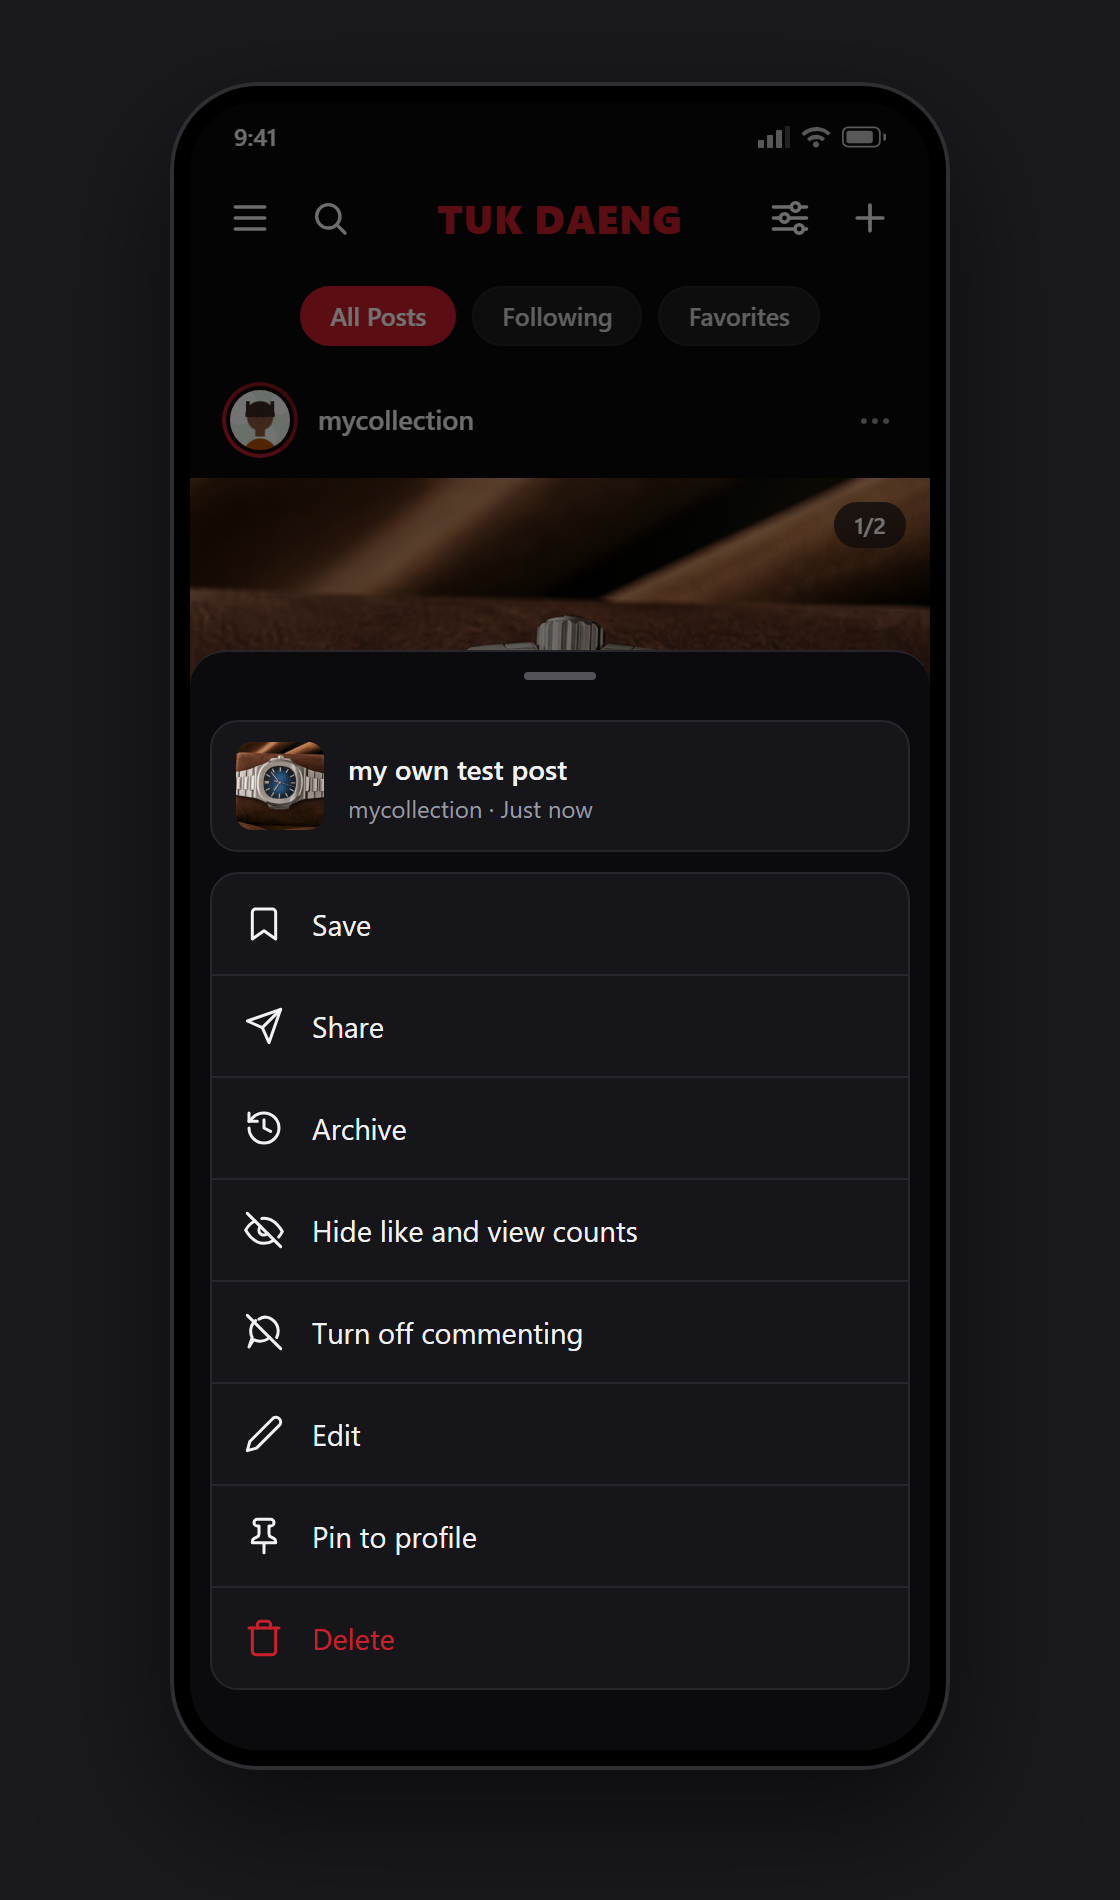
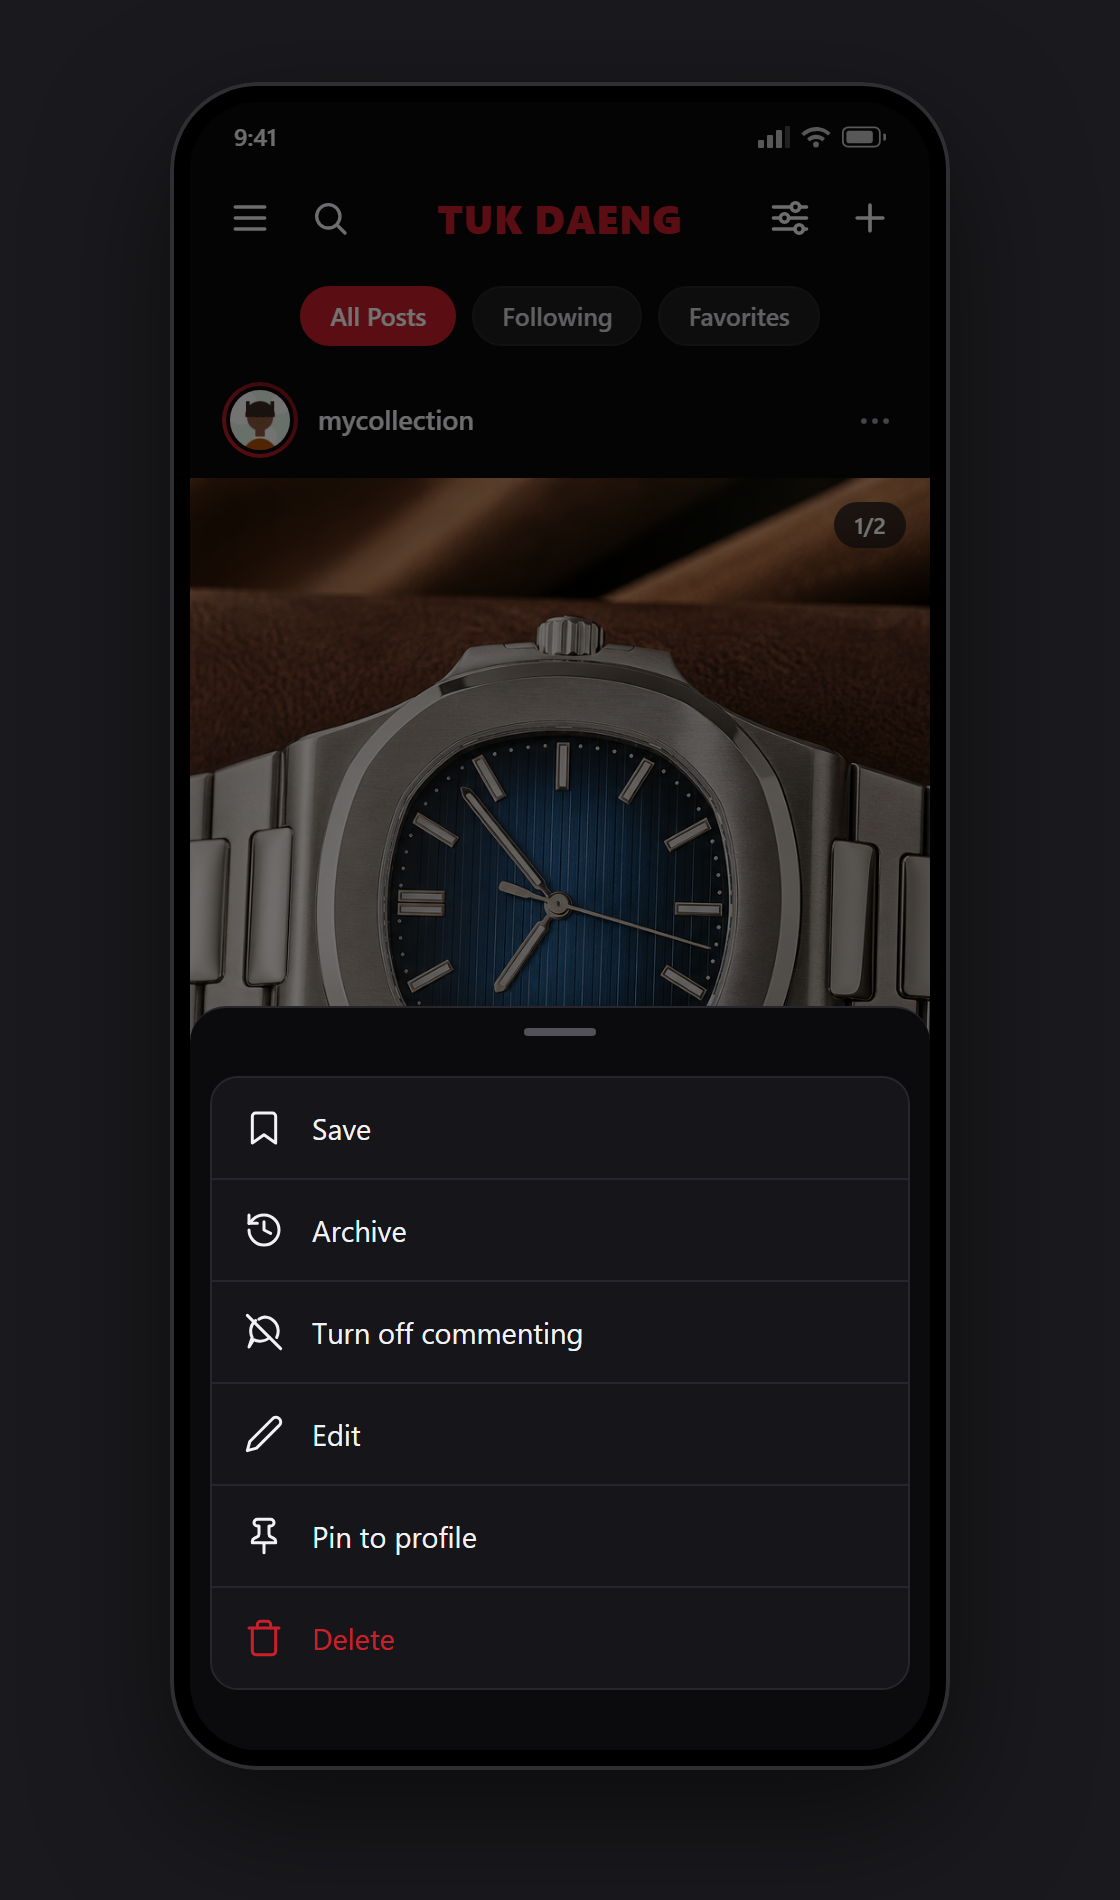
fix(FEED-024): trim own-post menu per feedback — drop preview card, Share, and Hide like and view counts (also removed from create flow More options pane). Menu is now 6 rows: Save / Archive / Turn off commenting / Edit / Pin to profile / Delete.
Generated with [Devin](https://devin.ai)

diff --git a/Prototypes/fo-flow/index.html b/Prototypes/fo-flow/index.html
@@ -1021,12 +1021,6 @@
   .pm-row svg { flex-shrink: 0; }
   .pm-row + .pm-row { border-top: 1px solid var(--line); }
   .pm-row.danger { color: var(--red); }
-  /* FEED-024 — own-post "..." menu: mini post preview card on top (no audio row) */
-  .pm-card.pm-post { display: flex; align-items: center; gap: 12px; padding: 10px 12px; }
-  .pm-ptumb { width: 44px; height: 44px; border-radius: 8px; object-fit: cover; flex-shrink: 0; }
-  .pm-pinfo { flex: 1; min-width: 0; }
-  .pm-pt { font-size: 14px; font-weight: 600; color: var(--text); white-space: nowrap; overflow: hidden; text-overflow: ellipsis; }
-  .pm-ps { font-size: 12px; color: var(--muted); margin-top: 2px; white-space: nowrap; overflow: hidden; text-overflow: ellipsis; }
   .pm-undo {
     font-family: var(--font-main);
     font-size: 14px; font-weight: 600;
@@ -3308,7 +3302,6 @@ const I = {
   play: (s=20) => `<svg width="${s}" height="${s}" viewBox="0 0 24 24" fill="currentColor"><path d="M8 5.4v13.2c0 .8.9 1.3 1.6.9l10.3-6.6c.6-.4.6-1.4 0-1.8L9.6 4.5c-.7-.4-1.6.1-1.6.9z"/></svg>`,
   pause: (s=20) => `<svg width="${s}" height="${s}" viewBox="0 0 24 24" fill="currentColor"><rect x="6.4" y="4.8" width="3.8" height="14.4" rx="1.2"/><rect x="13.8" y="4.8" width="3.8" height="14.4" rx="1.2"/></svg>`,
   video: (s=26) => `<svg width="${s}" height="${s}" viewBox="0 0 24 24" fill="none" stroke="currentColor" stroke-width="1.9" stroke-linecap="round" stroke-linejoin="round"><rect x="2" y="6" width="13.5" height="12" rx="2.5"/><path d="m15.8 10.3 5.7-3.1c.4-.2.8.1.8.5v8.6c0 .4-.4.7-.8.5l-5.7-3.1"/></svg>`,
-  eyeOff: (s=20) => `<svg width="${s}" height="${s}" viewBox="0 0 24 24" fill="none" stroke="currentColor" stroke-width="1.8" stroke-linecap="round" stroke-linejoin="round"><path d="M9.88 9.88a3 3 0 1 0 4.24 4.24"/><path d="M10.73 5.08A10.4 10.4 0 0 1 12 5c7 0 11 8 11 8a18.5 18.5 0 0 1-2.16 3.19"/><path d="M6.61 6.61A13.5 13.5 0 0 0 1 12s4 8 11 8a9.74 9.74 0 0 0 5.39-1.61"/><path d="m2 2 20 20"/></svg>`,
   commentOff: (s=20) => `<svg width="${s}" height="${s}" viewBox="0 0 24 24" fill="none" stroke="currentColor" stroke-width="1.8" stroke-linecap="round" stroke-linejoin="round"><path d="M8.9 4.3A8.4 8.4 0 0 1 12.5 3a8.48 8.48 0 0 1 8 8v.5a8.38 8.38 0 0 1-.9 3.8"/><path d="M15.3 15.3a8.5 8.5 0 0 1-5.8 2.2 8.38 8.38 0 0 1-3.8-.9L3 21l1.9-5.7a8.38 8.38 0 0 1-.9-3.8 8.5 8.5 0 0 1 3-6.4"/><path d="m2 2 20 20"/></svg>`,
   history: (s=20) => `<svg width="${s}" height="${s}" viewBox="0 0 24 24" fill="none" stroke="currentColor" stroke-width="1.8" stroke-linecap="round" stroke-linejoin="round"><path d="M3 12a9 9 0 1 0 9-9 9.75 9.75 0 0 0-6.74 2.74L3 8"/><path d="M3 3v5h5"/><path d="M12 7v5l4 2"/></svg>`,
   pinPost: (s=20) => `<svg width="${s}" height="${s}" viewBox="0 0 24 24" fill="none" stroke="currentColor" stroke-width="1.8" stroke-linecap="round" stroke-linejoin="round"><path d="M12 17v5"/><path d="M9 10.76a2 2 0 0 1-1.11 1.79l-1.78.9A2 2 0 0 0 5 15.24V16h14v-.76a2 2 0 0 0-1.11-1.79l-1.78-.9A2 2 0 0 1 15 10.76V6h1a2 2 0 0 0 0-4H8a2 2 0 0 0 0 4h1z"/></svg>`,
@@ -3788,21 +3781,11 @@ function pmMenuHTML(p) {
 const isOwnPost = p => p && p.seller === CP_ME.name;
 
 function pmOwnMenuHTML(p) {
-  const title = esc((p.caption || "").split("\n")[0]) || "Post";
   return `
     <div class="sheet-handle"></div>
-    <div class="pm-card pm-post pm-top">
-      <img class="pm-ptumb" src="${p.photos[0]}" alt="">
-      <div class="pm-pinfo">
-        <div class="pm-pt">${title}</div>
-        <div class="pm-ps">${esc(p.seller)} · ${esc(p.time)}</div>
-      </div>
-    </div>
     <div class="pm-card">
       <button class="pm-row pm-own-save">${I.bookmark(20)}<span>${p.saved ? "Remove from saved" : "Save"}</span></button>
-      <button class="pm-row pm-own-share">${I.share(20)}<span>Share</span></button>
       <button class="pm-row pm-own-archive">${I.history(20)}<span>${p.archived ? "Unarchive" : "Archive"}</span></button>
-      <button class="pm-row pm-own-hidec">${I.eyeOff(20)}<span>${p.hideCounts ? "Unhide like and view counts" : "Hide like and view counts"}</span></button>
       <button class="pm-row pm-own-nocomm">${I.commentOff(20)}<span>${p.noComments ? "Turn on commenting" : "Turn off commenting"}</span></button>
       <button class="pm-row pm-own-edit">${I.pen(20)}<span>Edit</span></button>
       <button class="pm-row pm-own-pin">${I.pinPost(20)}<span>${p.pinned ? "Unpin from profile" : "Pin to profile"}</span></button>
@@ -5291,7 +5274,6 @@ function cfPaneHTML(scr) {
   if (m.pane === "more") return head("More options") + `<div class="pane-body">
     <div class="pane-sec">How others can interact with your post</div>
     <div class="ig-toggle-row"><span class="ic">${I.comment(19)}</span><div class="tx"><div class="tt">Turn off commenting</div><div class="ts">Nobody can comment on this post. You can change this later from the ··· menu.</div></div><button class="sw pane-sw${m.noComments ? " on" : ""}" data-f="noComments"></button></div>
-    <div class="ig-toggle-row"><span class="ic">${I.heart(19)}</span><div class="tx"><div class="tt">Hide like and view counts</div><div class="ts">Only you will see the total number of likes and views on this post.</div></div><button class="sw pane-sw${m.hideCounts ? " on" : ""}" data-f="hideCounts"></button></div>
     <div class="pane-sec">Who can see your post</div>
     <button class="cond-opt aud-opt${(m.audience || "public") === "public" ? " on" : ""}" data-v="public"><span class="ic">${I.users(19)}</span><span class="lab">Everyone<span class="sub">Visible to all TukDaeng users</span></span><span class="rad"></span></button>
     <button class="cond-opt aud-opt${m.audience === "followers" ? " on" : ""}" data-v="followers"><span class="ic">${I.star(19)}</span><span class="lab">Followers only<span class="sub">Only people who follow you</span></span><span class="rad"></span></button>
@@ -5501,7 +5483,6 @@ function insertNewPost(np) {
     location: m.loc || null,
     audience: m.audience || "public",
     noComments: !!m.noComments,
-    hideCounts: !!m.hideCounts,
     desc: np.caption || base.desc,
     likedBy: { name: "the watch", avatar: "./assets/user-avatars/u-1042.png" },
   });
@@ -6165,7 +6146,7 @@ document.getElementById("stage").addEventListener("click", e => {
     return;
   }
   /* ===== FEED-024 — own-post "..." menu actions (memory only) ===== */
-  const pmOwn = e.target.closest(".pm-own-save, .pm-own-share, .pm-own-archive, .pm-own-hidec, .pm-own-nocomm, .pm-own-edit, .pm-own-pin, .pm-own-del");
+  const pmOwn = e.target.closest(".pm-own-save, .pm-own-archive, .pm-own-nocomm, .pm-own-edit, .pm-own-pin, .pm-own-del");
   if (pmOwn) {
     const scr = pmOwn.closest(".screen");
     const post = POSTS.find(x => x.id === scr.dataset.pmPid);
@@ -6177,16 +6158,9 @@ document.getElementById("stage").addEventListener("click", e => {
       post.savedAt = post.saved ? Date.now() : 0;
       syncSaveBtns(scr, post);
       scrToast(scr, post.saved ? "Saved" : "Removed from your saved");
-    } else if (pmOwn.matches(".pm-own-share")) {
-      scr.dataset.shPid = post.id;
-      openSheet(scr, "sh", "share-open", shareSheetHTML());
     } else if (pmOwn.matches(".pm-own-archive")) {
       post.archived = !post.archived;
       scrToast(scr, post.archived ? "Post archived" : "Post unarchived");
-    } else if (pmOwn.matches(".pm-own-hidec")) {
-      post.hideCounts = !post.hideCounts;
-      refreshPostViews(scr, post);
-      scrToast(scr, post.hideCounts ? "Like and view counts hidden" : "Like and view counts shown");
     } else if (pmOwn.matches(".pm-own-nocomm")) {
       post.noComments = !post.noComments;
       refreshPostViews(scr, post);
